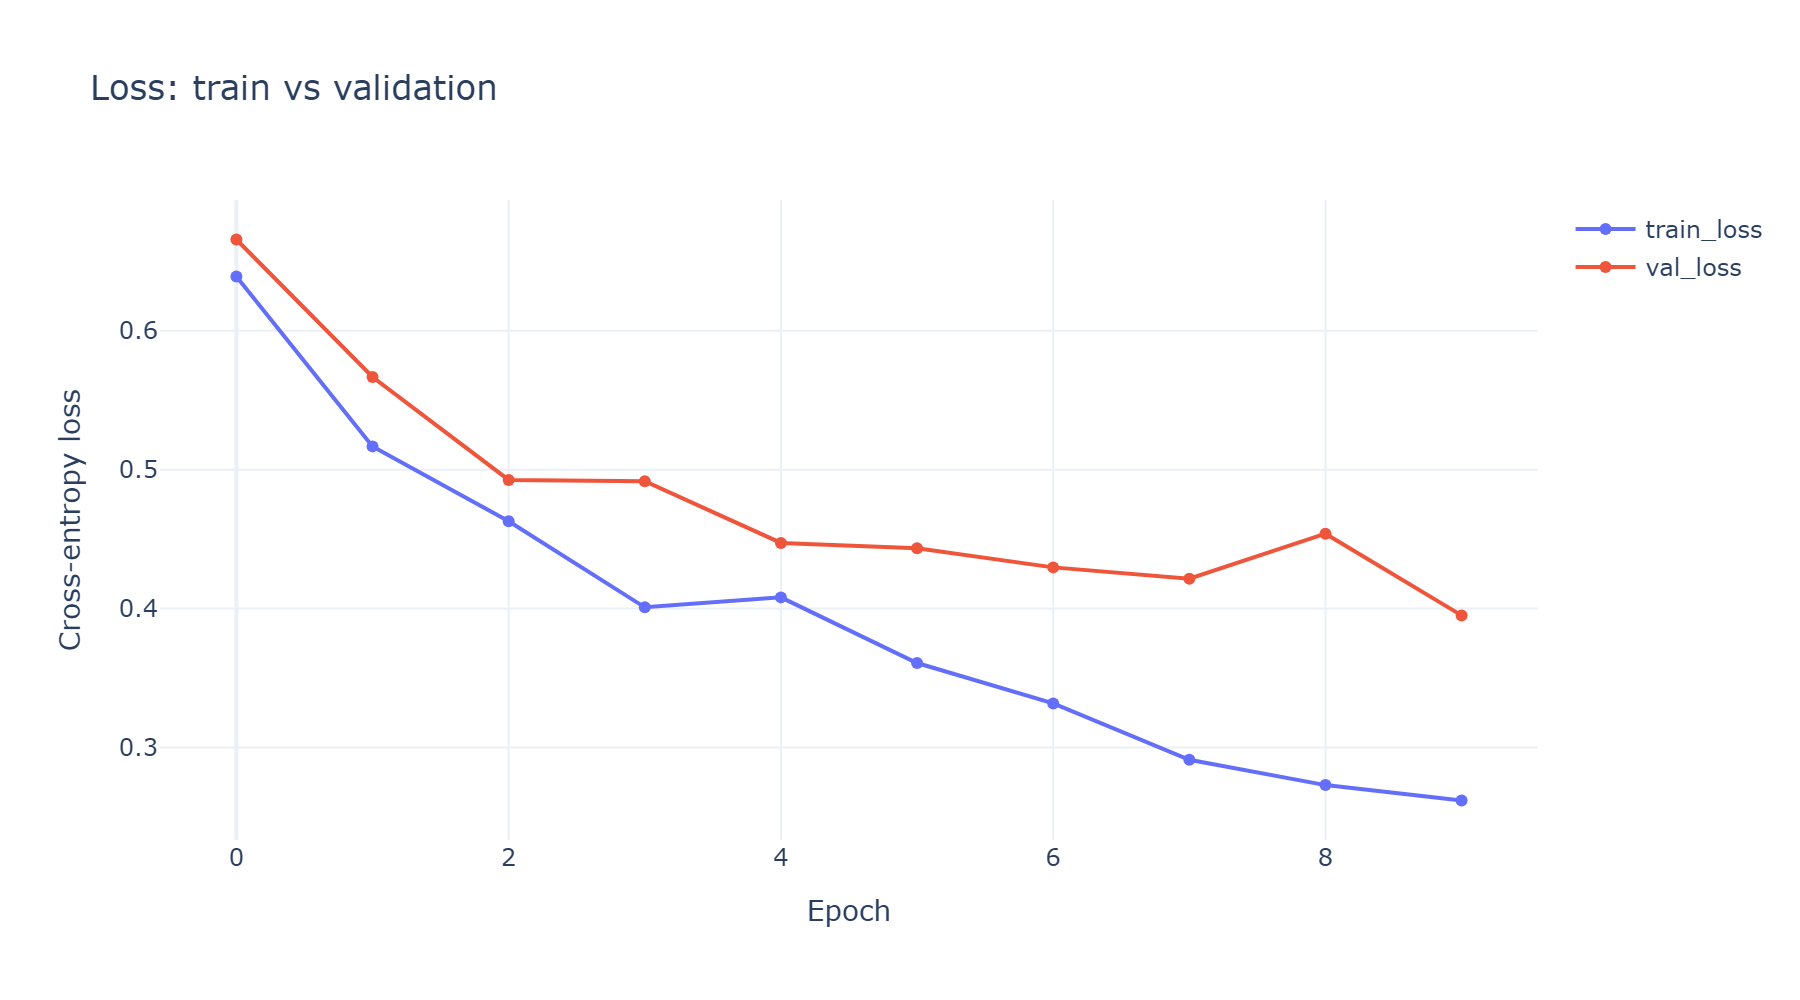
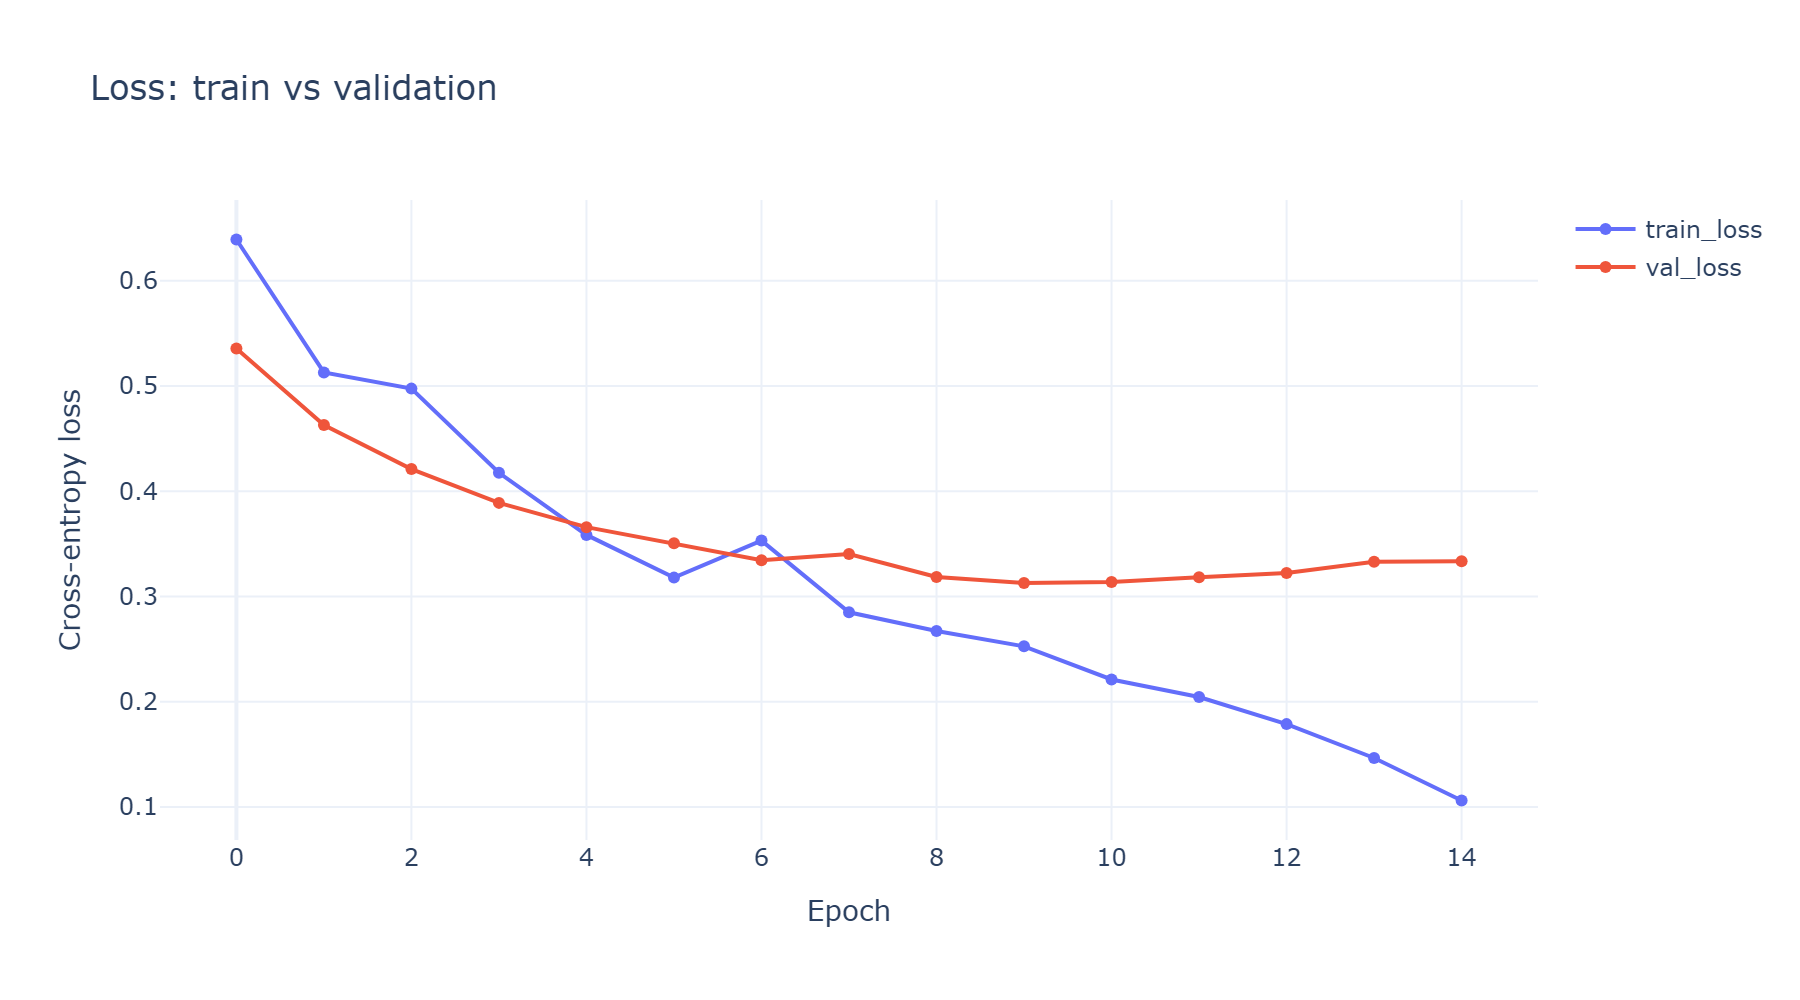
training fix: model.eval() and no_grad() in validation split

diff --git a/train.py b/train.py
@@ -13,7 +13,7 @@ vocab_size = 25000
 embed_dim = 128
 num_filters = 200
 kernel_sizes = [3, 4, 5]
-epochs = 10
+epochs = 15
 val_split = 0.1
 lr = 1e-3 * (batch_size / 512)
 
@@ -62,6 +62,7 @@ for e in range(epochs):
     total_loss = 0
 
     # train split
+    model.train()
     for i in range(0, N, batch_size):
         xb = X_shuffle[i:i+batch_size]
         yb = Y_shuffle[i:i+batch_size]
@@ -76,17 +77,19 @@ for e in range(epochs):
         total_loss += loss.item()
 
     # val split
-    TP = FP = FN = TN = 0
-    for i in range(0, len(X_val), batch_size):
-        logits = model(X_val[i:i+batch_size])
-        val_loss = F.cross_entropy(logits, Y_val[i:i+batch_size])
-        preds = logits.argmax(dim=1)
-        y = Y_val[i:i+batch_size]
+    model.eval()
+    with torch.no_grad():
+        TP = FP = FN = TN = 0
+        for i in range(0, len(X_val), batch_size):
+            logits = model(X_val[i:i+batch_size])
+            val_loss = F.cross_entropy(logits, Y_val[i:i+batch_size])
+            preds = logits.argmax(dim=1)
+            y = Y_val[i:i+batch_size]
 
-        TP += ((preds == 1) & (y == 1)).sum().item()
-        FP += ((preds == 1) & (y == 0)).sum().item()
-        FN += ((preds == 0) & (y == 1)).sum().item()
-        TN += ((preds == 0) & (y == 0)).sum().item()
+            TP += ((preds == 1) & (y == 1)).sum().item()
+            FP += ((preds == 1) & (y == 0)).sum().item()
+            FN += ((preds == 0) & (y == 1)).sum().item()
+            TN += ((preds == 0) & (y == 0)).sum().item()
 
     # метрики
     accuracy = (TP + TN) / (TP + TN + FP + FN) # доля правильных ответов
